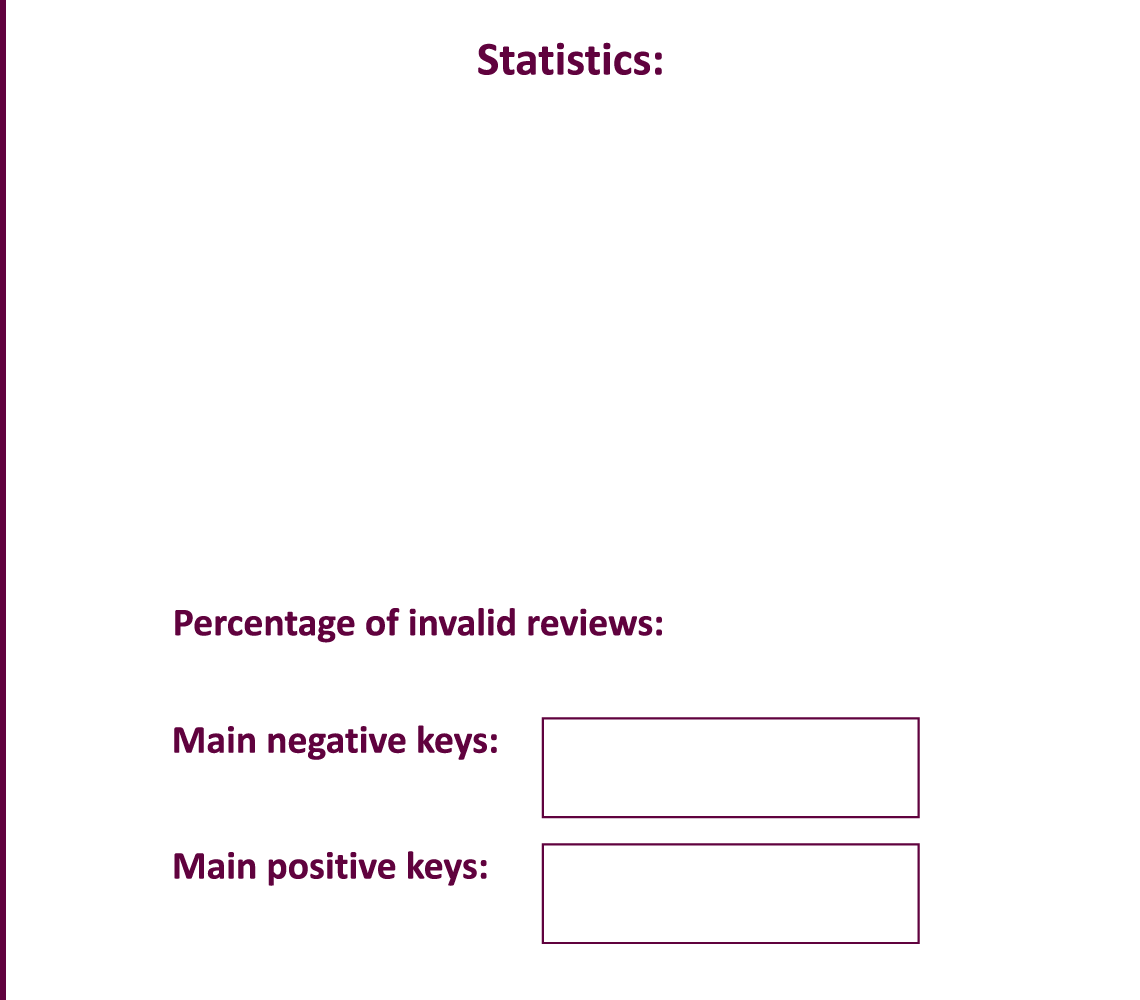
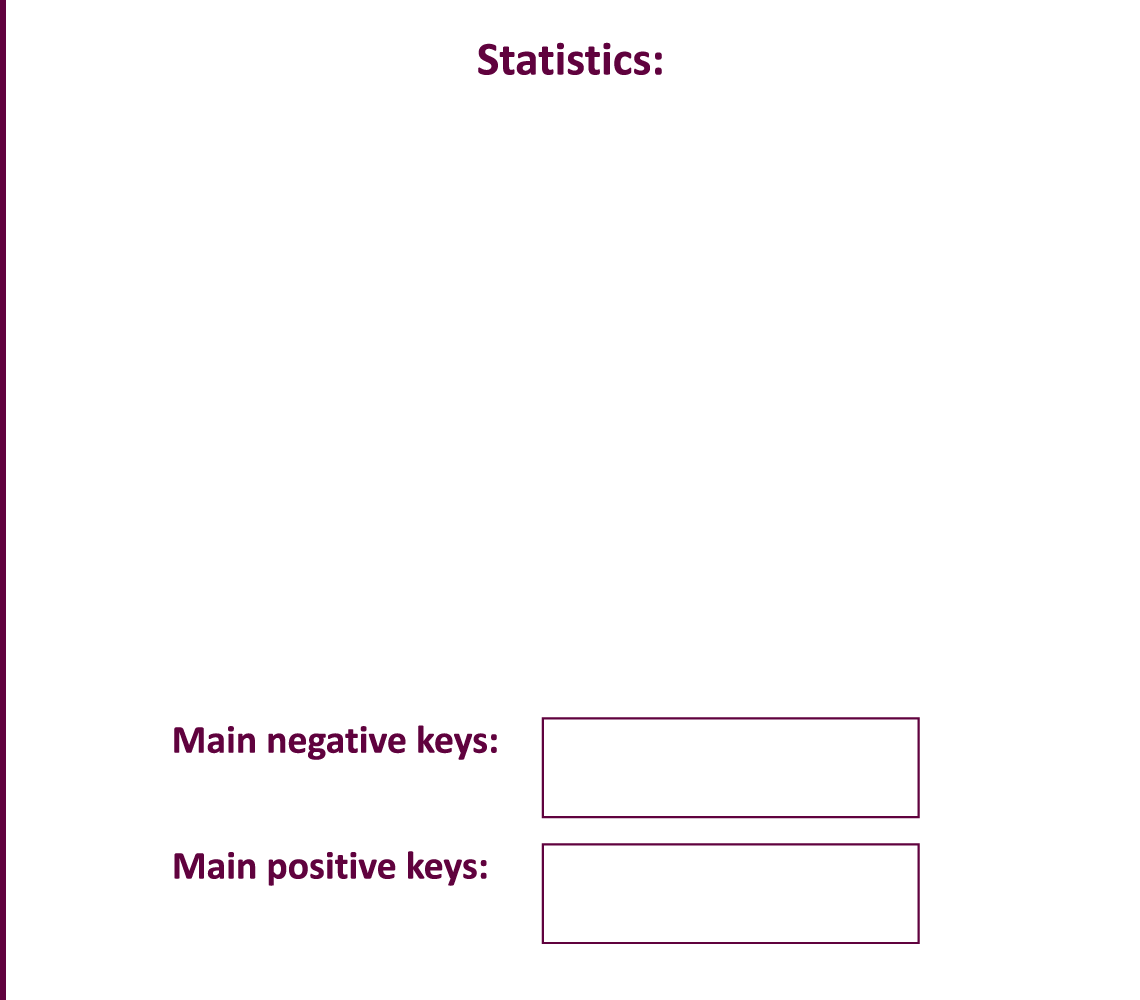
Final version

Changed region(s): [[0.1535, 0.589, 0.5833, 0.651]]

diff --git a/hackaton/UI.py b/hackaton/UI.py
@@ -104,11 +104,6 @@ class Example(QWidget):
         self.doneSquare.move(840, 0)
         self.doneSquare.hide()
 
-        # self.totalSpam = QLineEdit(self)
-        # self.totalSpam.setReadOnly(True)
-        # self.totalSpam.setFrame(False)
-        # self.totalSpam.setFont(self.font)
-
         self.setWindowIcon(QIcon('images/minilogo.png'))
 
         self.resize(1980, 1000)
@@ -152,10 +147,8 @@ class Example(QWidget):
                 print(rating)                                                       # rating -- рейтинг поискового запроса
                 plt.hist(tL)
                 plt.savefig("graph.png")
-                plt.show()
                 self.graph = QLabel(self)
                 self.graph.setPixmap(QPixmap("graph.png"))
-                # self.graph.resize(530, 400)
                 self.graph.move(1090, 100)
                 self.graph.show()
 
@@ -182,8 +175,8 @@ class Example(QWidget):
                 self.totalSpam.setReadOnly(True)
                 self.totalSpam.setFrame(False)
                 self.totalSpam.setFont(self.font)
-                self.totalSpam.setText(str(round(spamers)))
-                self.totalSpam.move(1525, 595)
+                self.totalSpam.setText("Invalid reviews: " + str(round(spamers)) + "% from " + str(len(uW)) + " users")
+                self.totalSpam.move(1300, 595)
                 self.totalSpam.show()
 
             self.rightSquare.hide()
